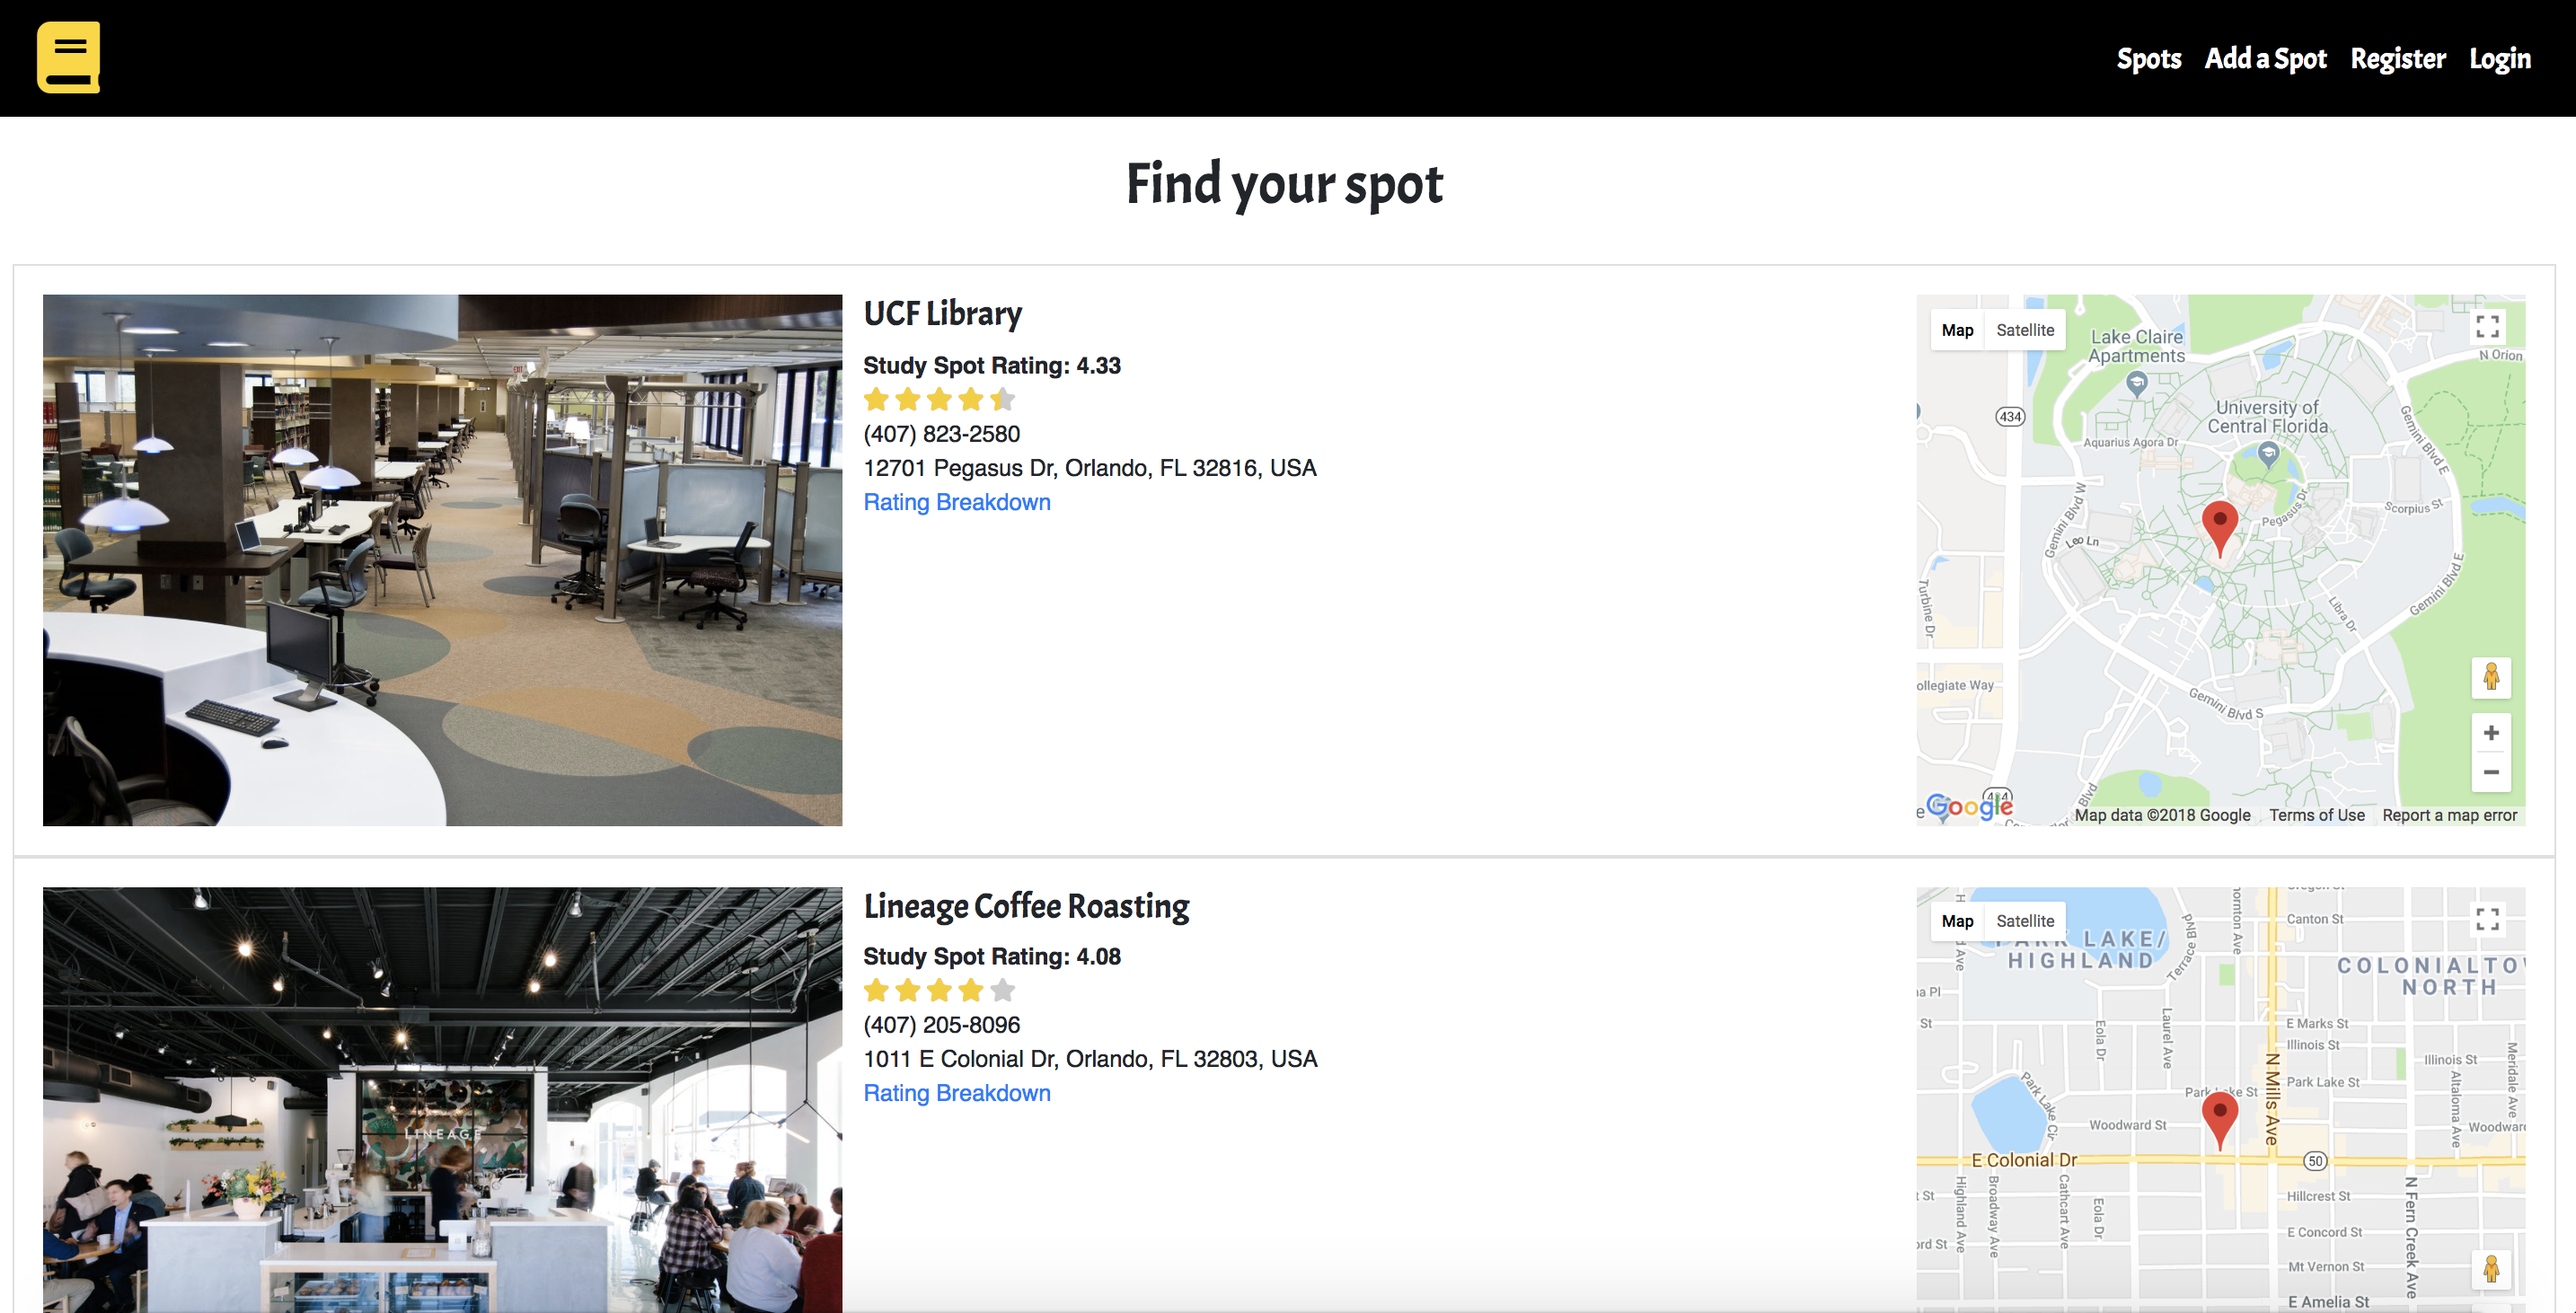
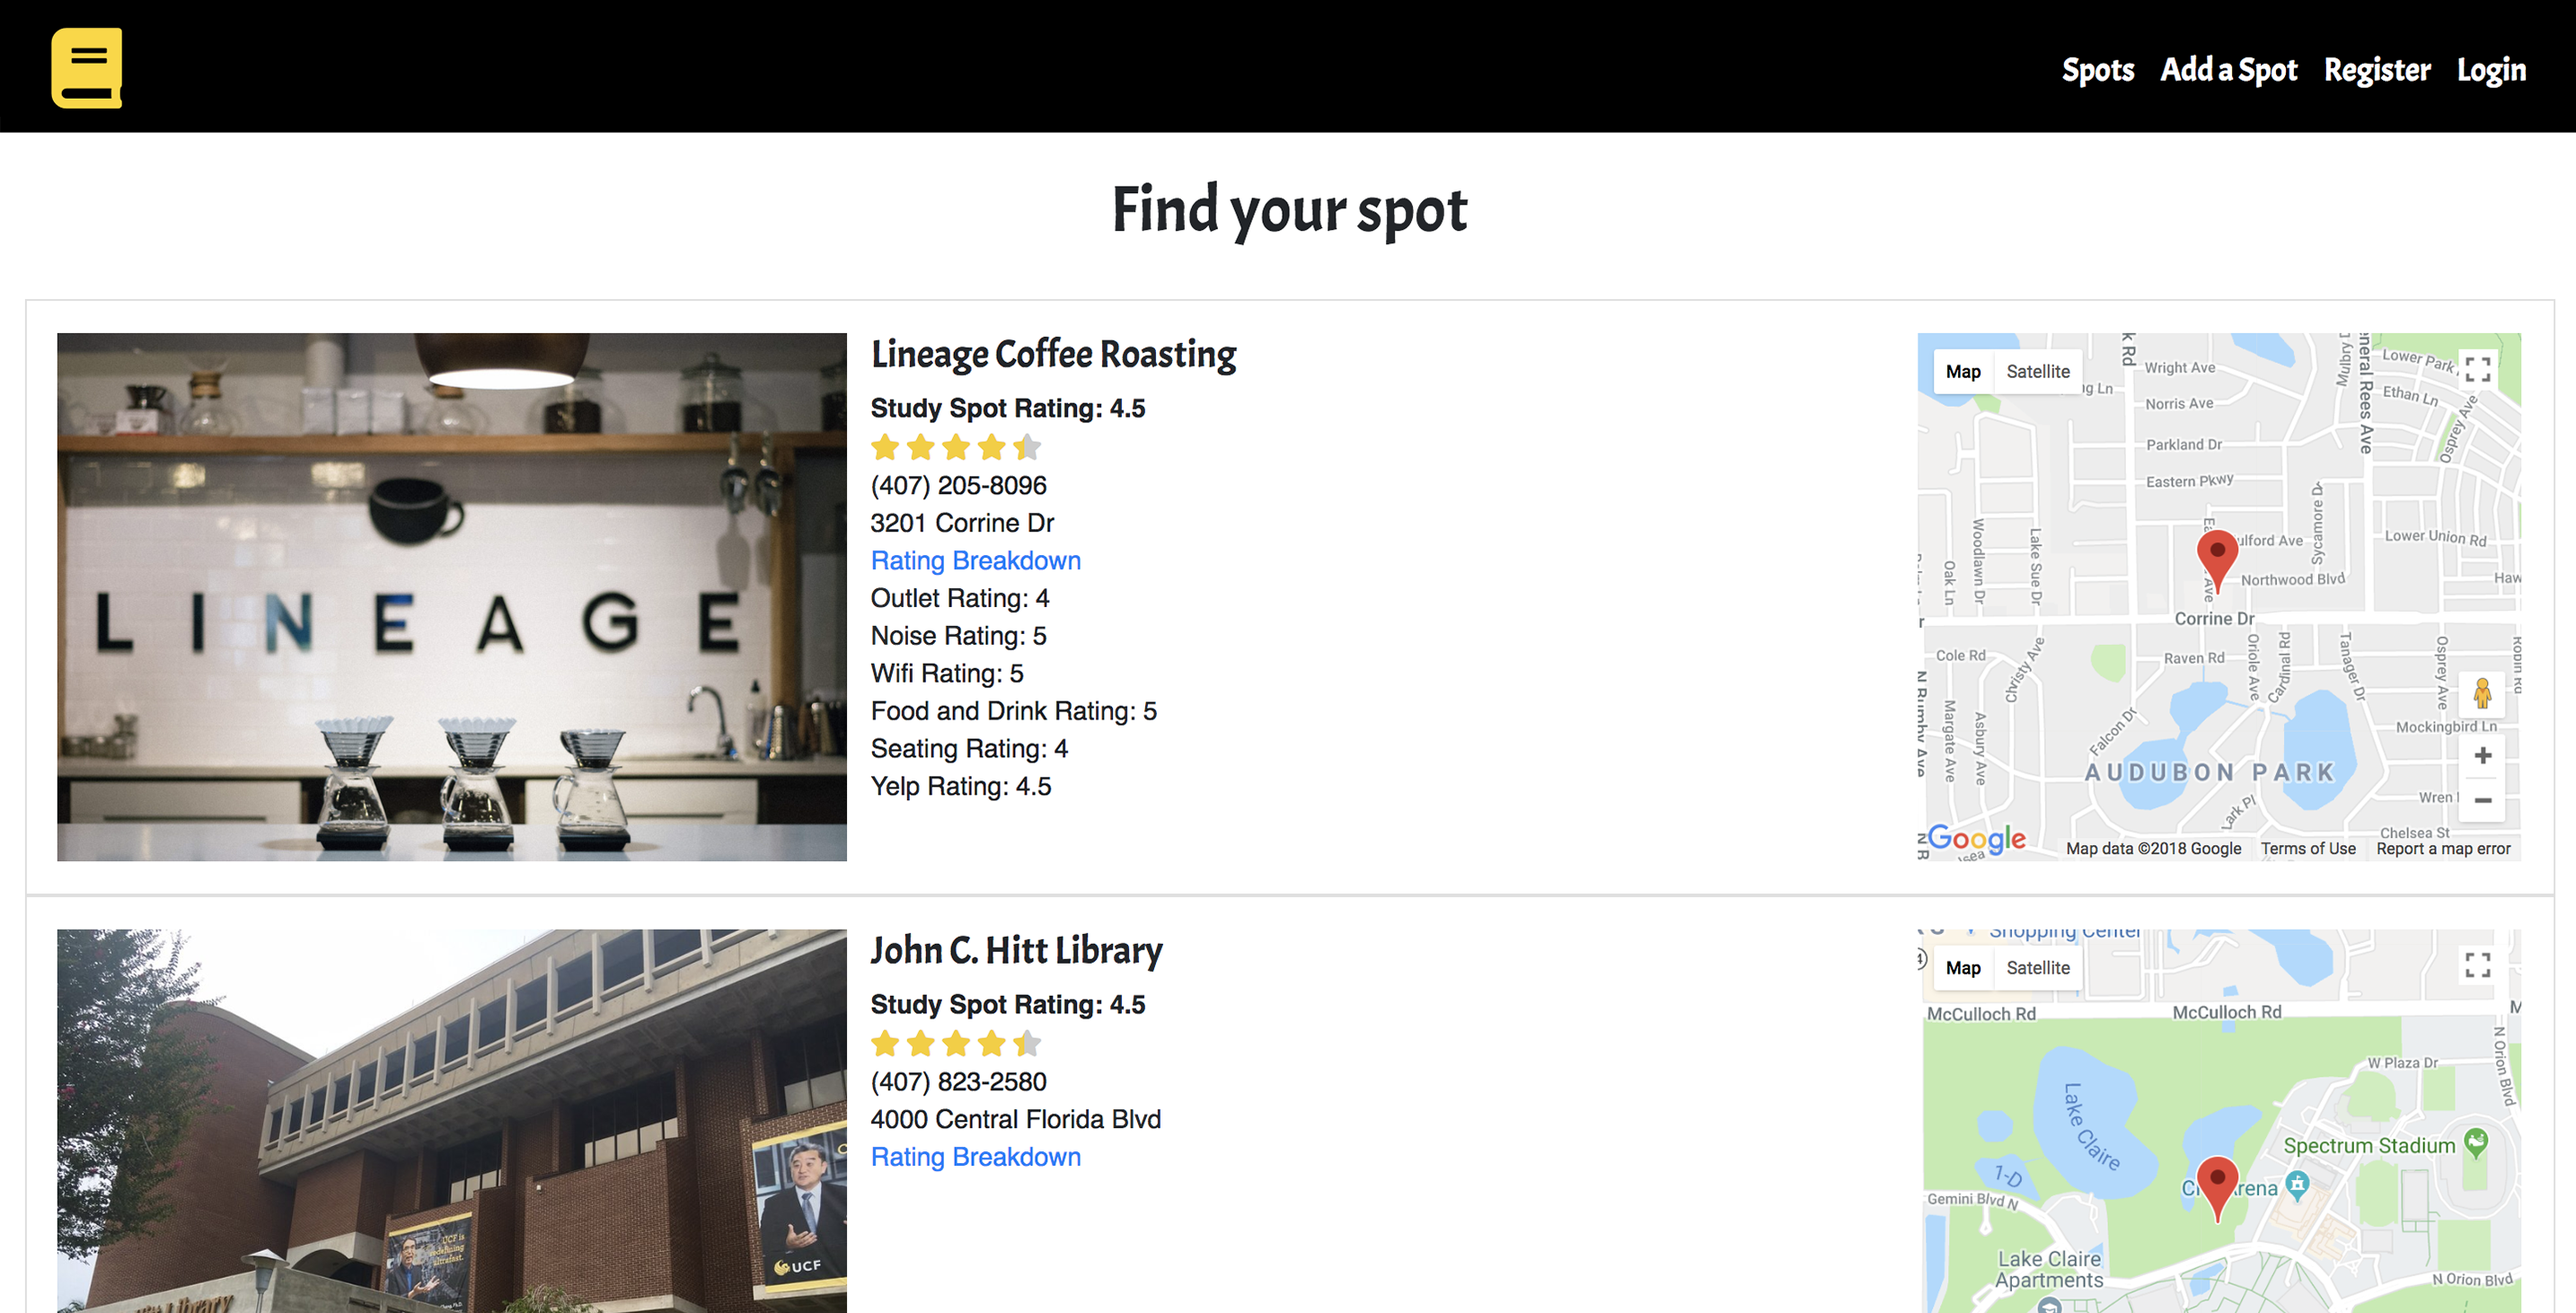
perfecting project card animations

diff --git a/public/css/style.css b/public/css/style.css
@@ -157,6 +157,7 @@
     align-items: center;
 }
 
+/* actual website styling*/
 
 #nameLogo{
     font-family: 'Cherry Swash', cursive;
@@ -169,12 +170,24 @@ body {
     min-height: 100vh;
     flex-direction: column;
 }
-
 main{
     flex: 1 0 auto;
 }
 .card-content{
-    padding-top: 0;
+    padding: 0px !important;
 }
-      
-
+.col{
+    max-height: 100%;
+}
+.nameBar{
+    color: rgb(39,94,99);
+    outline: none;
+    box-shadow: none;
+}
+#repoTitle{
+    width: 100%;
+}
+.fa-angle-down {
+    transform: rotate(180deg);
+    display: inline-block;
+  }

diff --git a/public/js/front.js b/public/js/front.js
@@ -2,3 +2,8 @@ document.addEventListener('DOMContentLoaded', function() {
     var elems = document.querySelectorAll('.materialboxed');
     var instances = M.Materialbox.init(elems);
   });
+
+document.addEventListener('DOMContentLoaded', function() {
+    var elems = document.querySelectorAll('.collapsible');
+    var instances = M.Collapsible.init(elems);
+});
